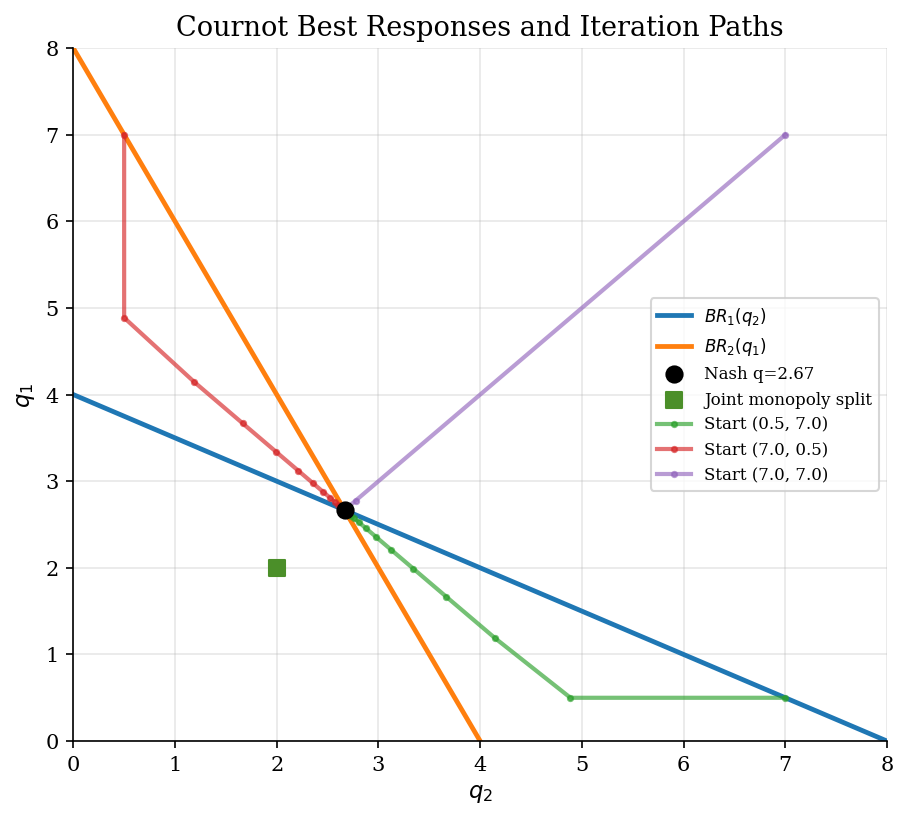
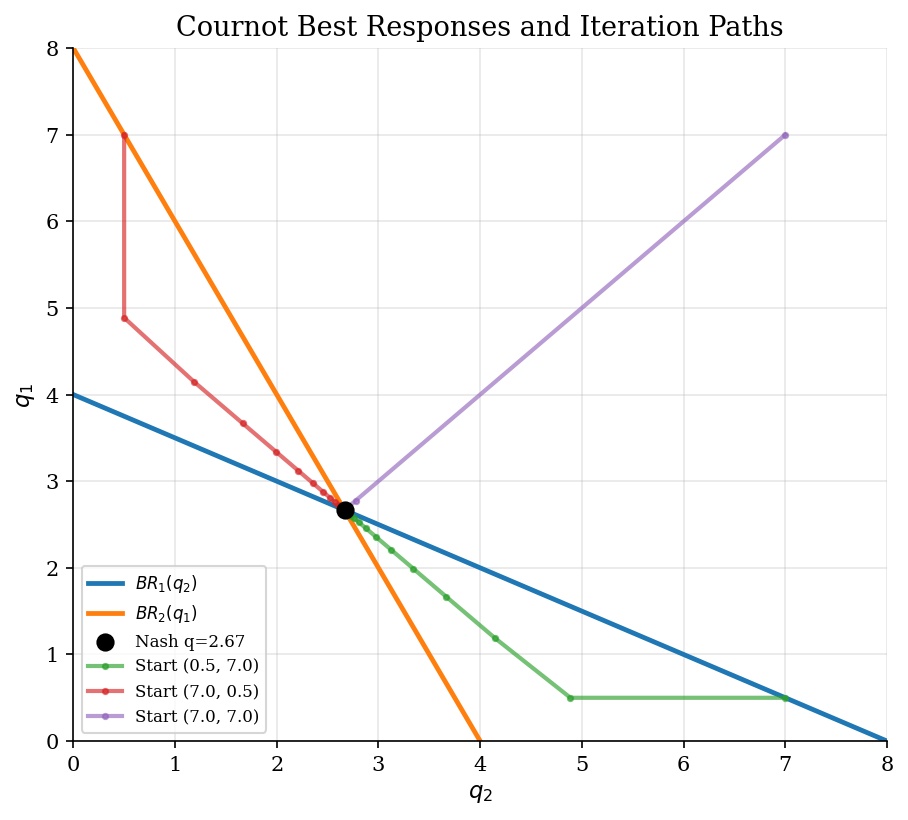
Cut static games tutorial

Changed region(s): [[0.7093, 0.3659, 0.9559, 0.6098], [0.0925, 0.7012, 0.3084, 0.8841], [0.2775, 0.6707, 0.3392, 0.7317]]

diff --git a/game-theory/static-games/run.py b/game-theory/static-games/run.py
@@ -76,37 +76,6 @@ def profit(
     return (price(q_i + q_j, a, b) - c) * q_i
 
 
-def surplus_table(a: float, b: float, c: float, q_nash: float) -> pd.DataFrame:
-    """Compare monopoly, duopoly, and competitive output levels."""
-    q_monopoly = (a - c) / (2.0 * b)
-    q_competitive = (a - c) / b
-    rows = []
-
-    for name, total_output, firms in [
-        ("Monopoly", q_monopoly, 1),
-        ("Cournot duopoly", 2.0 * q_nash, 2),
-        ("Perfect competition", q_competitive, np.inf),
-    ]:
-        market_price = price(total_output, a, b)
-        if np.isinf(firms):
-            firm_profit = 0.0
-        elif firms == 1:
-            firm_profit = (market_price - c) * total_output
-        else:
-            firm_profit = profit(q_nash, q_nash, a, b, c)
-
-        rows.append(
-            {
-                "Market structure": name,
-                "Total output": f"{total_output:.3f}",
-                "Price": f"{market_price:.3f}",
-                "Profit per firm": f"{firm_profit:.3f}",
-            }
-        )
-
-    return pd.DataFrame(rows)
-
-
 def main() -> None:
     a = 10.0
     b = 1.0
@@ -118,8 +87,6 @@ def main() -> None:
     q_star = (a - c) / (3.0 * b)
     p_star = price(2.0 * q_star, a, b)
     pi_star = profit(q_star, q_star, a, b, c)
-    q_monopoly = (a - c) / (2.0 * b)
-    q_competitive = (a - c) / b
     paths = {
         q0: iterate_best_responses(q0, a, b, c, steps=steps, damping=damping)
         for q0 in starts
@@ -128,22 +95,20 @@ def main() -> None:
     setup_style()
     report = ModelReport(
         "Cournot Quantity Competition and Best-Response Iteration",
-        "A quantity-setting oligopoly solved by Nash first-order conditions and checked by fixed-point iteration.",
+        "A quantity-setting duopoly solved by Nash first-order conditions and checked by best-response iteration.",
         include_reproduce=False,
         show_figure_captions=False,
     )
 
     report.add_overview(
-        "Two firms sell a homogeneous good, such as cement in one local market. "
-        "Each firm chooses output before the market price clears. Producing more "
-        "raises the firm's own sales, but it also lowers the price paid on every "
-        "unit. Cournot equilibrium asks where those incentives balance when each "
-        "firm treats the rival's quantity as given.\n\n"
-        "This linear duopoly has a closed-form Nash quantity, so the equilibrium "
-        "condition is easy to see. The computation treats the same condition as a "
-        "fixed point of best responses. That numerical view is useful because most "
-        "oligopoly games lose the one-line formula once demand, costs, or the number "
-        "of firms become richer."
+        "Two firms sell a homogeneous good in one market. Each firm chooses output "
+        "before the market price clears. Extra output raises own sales and lowers "
+        "the price on every unit.\n\n"
+        "Cournot equilibrium is a quantity pair. Each firm must maximize profit "
+        "given the rival's output.\n\n"
+        "The linear game has a closed-form Nash quantity. Best-response iteration "
+        "treats the same condition as a fixed point. The residual checks whether a "
+        "firm still wants to change output."
     )
 
     report.add_equations(
@@ -174,16 +139,6 @@ $$
 q^{*}=\frac{a-c}{3b},\qquad
 P^{*}=a-2bq^{*}.
 $$
-
-The comparison points are also useful:
-
-$$
-Q^{M}=\frac{a-c}{2b},\qquad
-Q^{C}=\frac{a-c}{b},
-$$
-
-where $Q^{M}$ is monopoly output and $Q^{C}$ is the competitive output at
-price equal to marginal cost.
 """
     )
 
@@ -200,10 +155,9 @@ price equal to marginal cost.
     )
 
     report.add_solution_method(
-        "The analytic solution solves the two first-order conditions directly. "
-        "The numerical calculation keeps the economic object the same: a Nash "
-        "quantity pair where both firms best respond. It searches for a fixed point "
-        "of the map $BR(q_1,q_2)=(BR_1(q_2),BR_2(q_1))$.\n\n"
+        "The first-order conditions solve the linear game directly. The numerical "
+        "check keeps the same economic object. It searches for a fixed point of "
+        "the map $BR(q_1,q_2)=(BR_1(q_2),BR_2(q_1))$.\n\n"
         "```text\n"
         "Algorithm: damped Cournot best-response iteration\n"
         "Inputs: demand parameters a, b, marginal cost c, start q_0, damping lambda\n"
@@ -215,8 +169,8 @@ price equal to marginal cost.
         "5. Compare the numerical fixed point with q* = (a-c)/(3b).\n"
         "```\n\n"
         "The residual links the iteration back to game theory. A path can look stable "
-        "on a figure while still leaving a firm with a profitable output change. "
-        "A small residual checks the no-deviation condition directly."
+        "while still leaving a profitable output change. A small residual checks "
+        "the no-deviation condition directly."
     )
 
     q_grid = np.linspace(0.0, 8.0, 240)
@@ -226,15 +180,6 @@ price equal to marginal cost.
     ax1.plot(q_grid, br, linewidth=2.3, label="$BR_1(q_2)$")
     ax1.plot(br, q_grid, linewidth=2.3, label="$BR_2(q_1)$")
     ax1.scatter(q_star, q_star, color="black", s=60, zorder=5, label=f"Nash q={q_star:.2f}")
-    ax1.scatter(
-        q_monopoly / 2.0,
-        q_monopoly / 2.0,
-        color="#4b8f29",
-        marker="s",
-        s=55,
-        zorder=5,
-        label="Joint monopoly split",
-    )
     for q0, path in paths.items():
         ax1.plot(path[:, 1], path[:, 0], marker="o", markersize=2.5, alpha=0.65, label=f"Start {q0}")
     ax1.set_xlabel("$q_2$")
@@ -245,10 +190,9 @@ price equal to marginal cost.
     ax1.legend(fontsize=8)
 
     report.add_results(
-        "The best-response curves cross at the Nash quantity. The joint-monopoly "
-        "split sits below that crossing. If one firm expected the rival to stay at "
-        "the collusive quantity, it would expand output and gain profit. The damped "
-        "paths show the same Nash condition reached from several starting quantities."
+        "The best-response curves cross at the Nash quantity. Each damped path "
+        "moves toward that crossing. Different starting quantities produce the "
+        "same Nash condition."
     )
     report.add_figure(
         "figures/cournot-best-response.png",
@@ -267,44 +211,13 @@ price equal to marginal cost.
 
     report.add_results(
         "The residual falls quickly because damping stabilizes this linear "
-        "best-response map. The final residual answers a game-theoretic question: "
-        "at the computed quantities, how large is the best remaining unilateral "
-        "output adjustment?"
+        "best-response map. The final residual measures the largest remaining "
+        "unilateral output adjustment."
     )
     report.add_figure(
         "figures/residuals.png",
         "Fixed-point residuals for damped best-response iteration",
         fig2,
-    )
-
-    total_output = np.linspace(0.0, a / b, 240)
-    market_price = price(total_output, a, b)
-    consumer_surplus = 0.5 * b * total_output**2
-    producer_surplus = (market_price - c) * total_output
-    total_surplus = consumer_surplus + producer_surplus
-
-    fig3, ax3 = plt.subplots(figsize=(7, 4.8))
-    ax3.plot(total_output, consumer_surplus, linewidth=2.0, label="Consumer surplus")
-    ax3.plot(total_output, producer_surplus, linewidth=2.0, label="Producer surplus")
-    ax3.plot(total_output, total_surplus, color="black", linestyle="--", linewidth=1.8, label="Total surplus")
-    ax3.axvline(q_monopoly, color="#b85c00", linestyle=":", label=f"Monopoly Q={q_monopoly:.1f}")
-    ax3.axvline(2.0 * q_star, color="#1b6ca8", linestyle=":", label=f"Cournot Q={2*q_star:.1f}")
-    ax3.axvline(q_competitive, color="#4b8f29", linestyle=":", label=f"Competitive Q={q_competitive:.1f}")
-    ax3.set_xlabel("Total output $Q$")
-    ax3.set_ylabel("Surplus")
-    ax3.set_title("Output and Surplus Benchmarks")
-    ax3.legend(fontsize=8)
-
-    report.add_results(
-        "The output comparison gives the equilibrium an economic interpretation. "
-        "Cournot output lies between monopoly and perfect competition, and so does "
-        "the price. The exact levels come from the calibration, while the ranking "
-        "comes from the strategic output effect."
-    )
-    report.add_figure(
-        "figures/welfare-analysis.png",
-        "Monopoly, Cournot, and competitive output benchmarks",
-        fig3,
     )
 
     rows = []
@@ -332,19 +245,12 @@ price equal to marginal cost.
         "Best-Response Convergence",
         pd.DataFrame(rows),
     )
-    report.add_table(
-        "tables/cournot-comparison.csv",
-        "Cournot Benchmarks",
-        surplus_table(a, b, c, q_star),
-    )
 
     report.add_takeaway(
-        "Cournot equilibrium is a fixed point with economic content: each firm is "
-        "already choosing its profit-maximizing quantity given the rival's output. "
-        "The closed form makes that condition transparent in a linear duopoly. "
-        "Best-response iteration turns the same idea into a numerical procedure, "
-        "and the residual checks whether the computed quantities satisfy Nash "
-        "incentives."
+        "Cournot equilibrium is a best-response fixed point. Each firm already "
+        "chooses its profit-maximizing quantity given the rival's output.\n\n"
+        "The closed form makes this condition transparent. Best-response iteration "
+        "provides a numerical check. The residual tests Nash incentives."
     )
 
     report.add_references(

diff --git a/game-theory/static-games/README.md b/game-theory/static-games/README.md
@@ -1,12 +1,14 @@
 # Cournot Quantity Competition and Best-Response Iteration
 
-> A quantity-setting oligopoly solved by Nash first-order conditions and checked by fixed-point iteration.
+> A quantity-setting duopoly solved by Nash first-order conditions and checked by best-response iteration.
 
 ## Overview
 
-Two firms sell a homogeneous good, such as cement in one local market. Each firm chooses output before the market price clears. Producing more raises the firm's own sales, but it also lowers the price paid on every unit. Cournot equilibrium asks where those incentives balance when each firm treats the rival's quantity as given.
+Two firms sell a homogeneous good in one market. Each firm chooses output before the market price clears. Extra output raises own sales and lowers the price on every unit.
 
-This linear duopoly has a closed-form Nash quantity, so the equilibrium condition is easy to see. The computation treats the same condition as a fixed point of best responses. That numerical view is useful because most oligopoly games lose the one-line formula once demand, costs, or the number of firms become richer.
+Cournot equilibrium is a quantity pair. Each firm must maximize profit given the rival's output.
+
+The linear game has a closed-form Nash quantity. Best-response iteration treats the same condition as a fixed point. The residual checks whether a firm still wants to change output.
 
 ## Equations
 
@@ -37,16 +39,6 @@ q^{\ast}=\frac{a-c}{3b},\qquad
 P^{\ast}=a-2bq^{\ast}.
 $$
 
-The comparison points are also useful:
-
-$$
-Q^{M}=\frac{a-c}{2b},\qquad
-Q^{C}=\frac{a-c}{b},
-$$
-
-where $Q^{M}$ is monopoly output and $Q^{C}$ is the competitive output at
-price equal to marginal cost.
-
 ## Model Setup
 
 | Object | Value | Meaning |
@@ -61,7 +53,7 @@ price equal to marginal cost.
 
 ## Solution Method
 
-The analytic solution solves the two first-order conditions directly. The numerical calculation keeps the economic object the same: a Nash quantity pair where both firms best respond. It searches for a fixed point of the map $BR(q_1,q_2)=(BR_1(q_2),BR_2(q_1))$.
+The first-order conditions solve the linear game directly. The numerical check keeps the same economic object. It searches for a fixed point of the map $BR(q_1,q_2)=(BR_1(q_2),BR_2(q_1))$.
 
 ```text
 Algorithm: damped Cournot best-response iteration
@@ -75,21 +67,17 @@ Output: quantity path q_t and fixed-point residuals
 5. Compare the numerical fixed point with q* = (a-c)/(3b).
 ```
 
-The residual links the iteration back to game theory. A path can look stable on a figure while still leaving a firm with a profitable output change. A small residual checks the no-deviation condition directly.
+The residual links the iteration back to game theory. A path can look stable while still leaving a profitable output change. A small residual checks the no-deviation condition directly.
 
 ## Results
 
-The best-response curves cross at the Nash quantity. The joint-monopoly split sits below that crossing. If one firm expected the rival to stay at the collusive quantity, it would expand output and gain profit. The damped paths show the same Nash condition reached from several starting quantities.
+The best-response curves cross at the Nash quantity. Each damped path moves toward that crossing. Different starting quantities produce the same Nash condition.
 
 <img src="figures/cournot-best-response.png" alt="Cournot best-response curves and damped iteration paths" width="80%">
 
-The residual falls quickly because damping stabilizes this linear best-response map. The final residual answers a game-theoretic question: at the computed quantities, how large is the best remaining unilateral output adjustment?
+The residual falls quickly because damping stabilizes this linear best-response map. The final residual measures the largest remaining unilateral output adjustment.
 
 <img src="figures/residuals.png" alt="Fixed-point residuals for damped best-response iteration" width="80%">
-
-The output comparison gives the equilibrium an economic interpretation. Cournot output lies between monopoly and perfect competition, and so does the price. The exact levels come from the calibration, while the ranking comes from the strategic output effect.
-
-<img src="figures/welfare-analysis.png" alt="Monopoly, Cournot, and competitive output benchmarks" width="80%">
 
 **Best-Response Convergence**
 
@@ -100,17 +88,11 @@ The output comparison gives the equilibrium an economic interpretation. Cournot 
 | (7.0, 7.0)  |     2.6667 |     2.6667 |   4.44e-16 |
 | Closed form |     2.6667 |     2.6667 |   4.44e-16 |
 
-**Cournot Benchmarks**
-
-| Market structure    |   Total output |   Price |   Profit per firm |
-|:--------------------|---------------:|--------:|------------------:|
-| Monopoly            |          4     |   6     |            16     |
-| Cournot duopoly     |          5.333 |   4.667 |             7.111 |
-| Perfect competition |          8     |   2     |             0     |
-
 ## Takeaway
 
-Cournot equilibrium is a fixed point with economic content: each firm is already choosing its profit-maximizing quantity given the rival's output. The closed form makes that condition transparent in a linear duopoly. Best-response iteration turns the same idea into a numerical procedure, and the residual checks whether the computed quantities satisfy Nash incentives.
+Cournot equilibrium is a best-response fixed point. Each firm already chooses its profit-maximizing quantity given the rival's output.
+
+The closed form makes this condition transparent. Best-response iteration provides a numerical check. The residual tests Nash incentives.
 
 ## References
 

diff --git a/README.md b/README.md
@@ -134,7 +134,7 @@ These tutorials introduce computational methods to solve game theoretic equilibr
 | Preview | Tutorial | Description |
 |---|---|---|
 | [<img src="game-theory/normal-form-games/figures/thumb.png" width="160">](game-theory/normal-form-games/figures/pure-deviation-gains.png) | **[Finite Strategic Games and Nash Equilibrium Checks](game-theory/normal-form-games/)** | Small payoff tables encode strategic coordination and matching games. Deviation-gain enumeration finds pure Nash cells; 2x2 indifference equations find mixed probabilities. |
-| [<img src="game-theory/static-games/figures/thumb.png" width="160">](game-theory/static-games/figures/cournot-best-response.png) | **[Cournot Quantity Competition and Best-Response Iteration](game-theory/static-games/)** | Study how two firms choose output when each firm moves the market price. Nash first-order conditions identify the Cournot quantity, and damped best-response iteration checks the same fixed point. |
+| [<img src="game-theory/static-games/figures/thumb.png" width="160">](game-theory/static-games/figures/cournot-best-response.png) | **[Cournot Quantity Competition and Best-Response Iteration](game-theory/static-games/)** | Two firms choose quantities in a linear Cournot market. First-order conditions give the Nash quantity, and damped best-response iteration checks the fixed point. |
 | [<img src="game-theory/first-price-auctions/figures/thumb.png" width="160">](game-theory/first-price-auctions/figures/bid-functions.png) | **[First-Price Auctions, Bid Shading, and Deviation Checks](game-theory/first-price-auctions/)** | Study how private-value bidders shade bids when the winner pays its own bid. A closed-form Bayesian Nash rule gives the benchmark, and a grid deviation check verifies it type by type. |
 | [<img src="game-theory/quantal-response-equilibrium/figures/thumb.png" width="160">](game-theory/quantal-response-equilibrium/figures/qre-path.png) | **[Market Entry with Quantal Response Equilibrium](game-theory/quantal-response-equilibrium/)** | Study entry when two firms may make payoff-sensitive mistakes. Logit QRE turns noisy best responses into a fixed-point path toward mixed Nash. |
 
